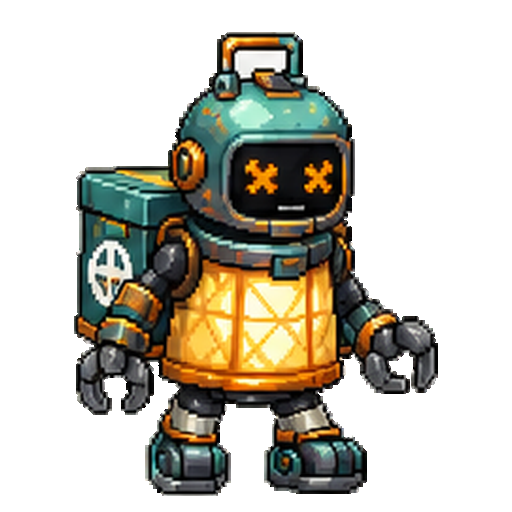
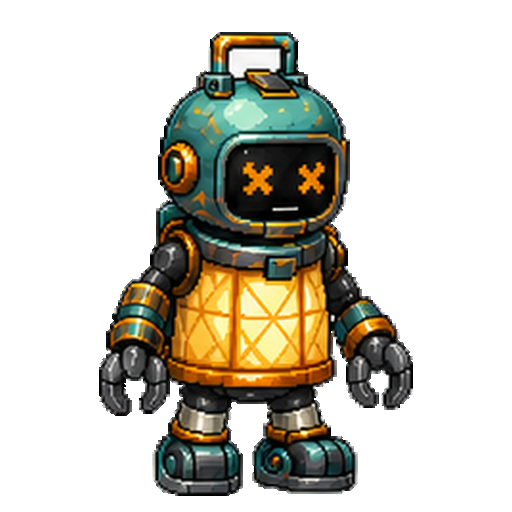
Rebuild stage one enemies under strict visual gate

diff --git a/android/tools/build_strict_enemy_atlas.py b/android/tools/build_strict_enemy_atlas.py
@@ -12,6 +12,8 @@ from PIL import Image, ImageFilter
 
 COLS, SOURCE_ROWS, OUTPUT_ROWS = 6, 2, 6
 SHEETS = ("idle_walk.png", "attacks.png", "hurt_knockdown.png")
+MIN_SOURCE_SIZE = (1536, 900)
+MIN_SOURCE_CELL = (250, 450)
 TIERS = {
     # Wide 7:6 cells preserve punches, backpacks, shields, and prone bodies.
     # The old 5:6 cell forced wide poses to shrink until details disappeared.
@@ -114,29 +116,67 @@ def keep_character_and_effects(image: Image.Image) -> Image.Image:
     return result
 
 
+def adaptive_column_bounds(clean_row: Image.Image) -> list[int]:
+    """Split on real empty gutters instead of assuming perfectly equal cells."""
+    alpha = clean_row.getchannel("A")
+    # BOX reduction gives the per-column foreground density in native code.
+    projection = list(alpha.resize((alpha.width, 1), Image.Resampling.BOX).getdata())
+    nominal = alpha.width / COLS
+    bounds = [0]
+    # Generators distribute poses visually, not with exact mathematical cell
+    # widths. A one-third-cell search still cannot skip a pose, but it can find
+    # the real white gutter after a long punch or wide grounded silhouette.
+    radius = max(12, round(nominal * .33))
+    half_window = 3
+    for index in range(1, COLS):
+        target = round(index * nominal)
+        start = max(bounds[-1] + 24, target - radius)
+        end = min(alpha.width - 24, target + radius)
+        cut = min(
+            range(start, end + 1),
+            key=lambda x: (
+                sum(projection[max(0, x-half_window):min(alpha.width, x+half_window+1)]),
+                abs(x - target),
+            ),
+        )
+        bounds.append(cut)
+    bounds.append(alpha.width)
+    return bounds
+
+
 def split_sheet(path: Path) -> list[Image.Image]:
     image = Image.open(path).convert("RGB")
-    # Image generators may return a wide 3:1 sheet or a taller 3:2 sheet.
-    # Judge source detail per panel, not by one fixed canvas aspect ratio.
     panel_width = image.width / COLS
     panel_height = image.height / SOURCE_ROWS
-    if panel_width < 240 or panel_height < 240:
+    if image.width < MIN_SOURCE_SIZE[0] or image.height < MIN_SOURCE_SIZE[1]:
+        raise ValueError(f"source sheet below {MIN_SOURCE_SIZE}: {path} {image.size}")
+    if panel_width < MIN_SOURCE_CELL[0] or panel_height < MIN_SOURCE_CELL[1]:
         raise ValueError(
-            f"source cells are below 240x240: {path} {image.size} "
+            f"source cells are below {MIN_SOURCE_CELL}: {path} {image.size} "
             f"cell={panel_width:.0f}x{panel_height:.0f}"
         )
     frames = []
     for row in range(SOURCE_ROWS):
         top, bottom = round(image.height * row / 2), round(image.height * (row + 1) / 2)
+        clean_row = hard_alpha(remove_edge_background(image.crop((0, top, image.width, bottom))))
+        bounds = adaptive_column_bounds(clean_row)
         for column in range(COLS):
-            left, right = round(image.width * column / 6), round(image.width * (column + 1) / 6)
-            inset_x, inset_y = max(4, (right - left) // 45), max(4, (bottom - top) // 70)
-            panel = image.crop((left + inset_x, top + inset_y,
-                                right - inset_x, bottom - inset_y))
-            clean = keep_character_and_effects(hard_alpha(remove_edge_background(panel)))
+            left, right = bounds[column], bounds[column + 1]
+            # Never pre-trim a generated cell: the old inset could eat a fist,
+            # backpack, shield, or prone foot before validation saw it.
+            panel = clean_row.crop((left, 0, right, clean_row.height))
+            clean = keep_character_and_effects(panel)
             box = clean.getchannel("A").getbbox()
             if not box:
                 raise ValueError(f"empty source frame: {path.name} r{row} c{column}")
+            # Reject a cropped source instead of hiding the defect by deleting
+            # edge pixels. This is the principal guard against wrapped limbs.
+            source_gutter = max(3, min(panel.size) // 100)
+            if min(box[0], box[1], panel.width - box[2], panel.height - box[3]) < source_gutter:
+                raise ValueError(
+                    f"cropped source frame: {path.name} r{row} c{column} "
+                    f"box={box} panel={panel.size}"
+                )
             frames.append(clean.crop(box))
     return frames
 
@@ -165,9 +205,18 @@ def build_tier(frames: list[Image.Image], tier: str) -> Image.Image:
     reference_length = statistics.median(
         max(frame.width, frame.height) * scale for frame in frames[:12]
     )
+    reference_standing_height = statistics.median(
+        frame.height * scale for frame in frames[:12]
+    )
     atlas = Image.new("RGBA", (cell[0] * COLS, cell[1] * OUTPUT_ROWS), (0, 0, 0, 0))
     for index, frame in enumerate(frames):
         target = (max(2, round(frame.width * scale)), max(2, round(frame.height * scale)))
+        # Idle/walk must never breathe in size. Normalize their body height
+        # before fitting the exceptional wide poses into the safety area.
+        if index < 12:
+            stable = reference_standing_height / target[1]
+            target = (max(2, round(target[0] * stable)),
+                      max(2, round(target[1] * stable)))
         # Generated action/reaction panels sometimes contain the same actor at
         # a much smaller camera scale. Enforce a minimum visible body length so
         # punches, hurt frames, and prone frames cannot fade into tiny shapes.
@@ -225,6 +274,12 @@ def main() -> None:
     parser.add_argument("source_dir", type=Path)
     parser.add_argument("assets", type=Path)
     args = parser.parse_args()
+    model_sheet = args.source_dir / "model_sheet.png"
+    if not model_sheet.is_file():
+        raise ValueError(f"missing identity model sheet: {model_sheet}")
+    with Image.open(model_sheet) as model:
+        if model.width < MIN_SOURCE_SIZE[0] or model.height < MIN_SOURCE_SIZE[1]:
+            raise ValueError(f"model sheet below {MIN_SOURCE_SIZE}: {model_sheet} {model.size}")
     frames = []
     for sheet in SHEETS: frames.extend(split_sheet(args.source_dir / sheet))
     if len(frames) != 36: raise ValueError(len(frames))

diff --git a/android/tools/test_enemy_visual_quality_contract.py b/android/tools/test_enemy_visual_quality_contract.py
@@ -1,7 +1,8 @@
 #!/usr/bin/env python3
-"""Release-blocking visual parity contract for the approved Stage 1 pilot."""
+"""Release-blocking visual parity contract for every Stage 1 enemy."""
 
 from pathlib import Path
+import importlib.util
 import statistics
 
 from PIL import Image
@@ -10,10 +11,16 @@ ROOT = Path(__file__).resolve().parents[1]
 ASSETS = ROOT / "app/src/main/assets"
 JAVA = (ROOT / "app/src/main/java/com/familyforce/neonstreets/EnemyArchetype.java").read_text()
 GAME = (ROOT / "app/src/main/java/com/familyforce/neonstreets/GameView.java").read_text()
-SOURCE = ROOT.parent / "assets/imagegen/android/enemies/quality-v1"
+SOURCE = ROOT.parent / "assets/imagegen/android/enemies/quality-v2"
 STRICT = (
     "grunt", "skater", "lantern_courier", "market_enforcer", "keeper_7",
 )
+
+BUILDER_PATH = ROOT / "tools/build_strict_enemy_atlas.py"
+SPEC = importlib.util.spec_from_file_location("strict_enemy_builder", BUILDER_PATH)
+assert SPEC and SPEC.loader
+BUILDER = importlib.util.module_from_spec(SPEC)
+SPEC.loader.exec_module(BUILDER)
 
 
 def cells(image: Image.Image):
@@ -26,13 +33,26 @@ def cells(image: Image.Image):
 
 for enemy in STRICT:
     assert f'type("{enemy}"' in JAVA, enemy
+    model_sheet = SOURCE / enemy / "model_sheet.png"
+    assert model_sheet.is_file(), f"missing identity model sheet: {model_sheet}"
+    with Image.open(model_sheet) as model:
+        assert model.width >= 1536 and model.height >= 900, (
+            model_sheet, model.size, "model sheet below 1536x900"
+        )
     for sheet in ("idle_walk.png", "attacks.png", "hurt_knockdown.png"):
         path = SOURCE / enemy / sheet
         assert path.is_file(), f"missing high-resolution source: {path}"
         with Image.open(path) as image:
-            assert image.width / 6 >= 240 and image.height / 2 >= 240, (
-                path, image.size, "source cell below 240x240"
+            assert image.width >= 1536 and image.height >= 900, (
+                path, image.size, "source sheet below 1536x900"
             )
+            assert image.width / 6 >= 250 and image.height / 2 >= 450, (
+                path, image.size, "source cell below 250x450"
+            )
+        # Runs the same adaptive split and crop guard used by production. A
+        # visually attractive sheet cannot pass if any actor/effect touches
+        # the real gutter or would wrap into the neighbouring game frame.
+        assert len(BUILDER.split_sheet(path)) == 12, path
     tiers = {
         "base": (ASSETS / f"enemies/{enemy}_anim.png", (1344, 1152), 8),
         "runtime": (ASSETS / f"runtime/enemies/{enemy}_anim.png", (2016, 1728), 12),
@@ -51,7 +71,7 @@ for enemy in STRICT:
             standing = boxes[:12]
             ratios = [(box[3] - box[1]) / cell_h for box in standing]
             assert statistics.median(ratios) >= .64, (enemy, tier, "too small", statistics.median(ratios))
-            assert max(ratios) - min(ratios) <= .13, (enemy, tier, "scale drift", ratios)
+            assert max(ratios) - min(ratios) <= .05, (enemy, tier, "scale drift", ratios)
             lengths = [max(box[2] - box[0], box[3] - box[1]) for box in boxes]
             reference = statistics.median(lengths[:12])
             assert min(lengths[12:24]) >= reference * .78, (enemy, tier, "small action", lengths)

diff --git a/android/docs/ENEMY_VISUAL_QUALITY_STANDARD_AR.md b/android/docs/ENEMY_VISUAL_QUALITY_STANDARD_AR.md
@@ -2,29 +2,31 @@
 
 ## النطاق الحالي
 
-هذا معيار منع إصدار، ويطبّق في النسخة التجريبية الأولى على شخصيات المرحلة
-الأولى فقط: `Grunt` و`Skater` و`Lantern Courier` و`Market Enforcer`
-و`Keeper-7`. لا تُعمّم إعادة الرسم على المراحل التالية قبل اعتماد النتيجة داخل
-اللعبة على الهاتف وAndroid TV.
+هذا معيار منع إصدار صارم، ويطبّق على جميع أعداء المرحلة الأولى: `Grunt`
+و`Skater` و`Lantern Courier` و`Market Enforcer` و`Keeper-7`. مرجع الجودة
+والوضوح هو المستوى المعتمد داخل اللعبة لشخصيتي `Striker` و`Shield Guard`.
+لا تُعمّم إعادة الرسم على المراحل التالية قبل اعتماد المرحلة الأولى داخل اللعبة.
 
 ## المصدر الإلزامي
 
-- لكل عدو ثلاث أوراق صور ثابتة: `idle_walk.png` و`attacks.png`
+- لكل عدو `model_sheet.png` إلزامي لتثبيت الهوية، وثلاث أوراق صور ثابتة:
+  `idle_walk.png` و`attacks.png`
   و`hurt_knockdown.png`.
-- كل ورقة شبكة `6×2`، وكل خلية مصدر لا تقل عن `240×240` بكسل.
+- لا تقل أي ورقة عن `1536×900`، وتكون أوراق الحركة شبكة `6×2`، وكل خلية
+  مصدر لا تقل عن `250×450` بكسل. الاسم UHD وحده لا يعد دليلاً على الجودة.
 - يحافظ الرسم على هوية العدو وألوانه ونسب جسمه؛ المرجع يحدد الهوية، ومعيار
   Striker وShield Guard يحدد دقة الخطوط وحجم تجمعات البكسل.
-- الجسم كامل داخل كل خلية مع مساحة آمنة للحركة؛ يمنع قص الأطراف أو انتقال مؤثر
-  من خلية مجاورة.
+- الجسم كامل داخل كل خلية مع مساحة آمنة للحركة؛ أي إطار يلامس حد الخلية يُرفض
+  قبل بناء الأطلس، ويمنع قص الأطراف أو انتقال مؤثر من خلية مجاورة.
 - يمنع الـblur والـsoft alpha والبكسل العملاق والخلفيات أو النصوص داخل الخلايا.
 
 ## الأطالس المعتمدة
 
 | الطبقة | حجم الأطلس | حجم الخلية | الاستخدام |
 |---|---:|---:|---|
-| Base | `960×1152` | `160×192` | الهواتف/الاحتياط، تجمعات بكسل مضبوطة `2×2` |
-| Runtime | `1440×1728` | `240×288` | الأجهزة ذات ذاكرة كافية، مبني مباشرة من المصدر العالي |
-| TV | `840×1008` | `140×168` | أجهزة Android TV محدودة الذاكرة، مشتق مرة واحدة من Runtime |
+| Base | `1344×1152` | `224×192` | الهواتف/الاحتياط، تجمعات بكسل مضبوطة `2×2` |
+| Runtime | `2016×1728` | `336×288` | الأجهزة ذات ذاكرة كافية، مبني مباشرة من المصدر العالي |
+| TV | `1176×1008` | `196×168` | أجهزة Android TV محدودة الذاكرة، مبني مباشرة من المصدر العالي |
 
 ## بوابة القبول الآلية
 
@@ -32,9 +34,11 @@
 - Alpha ثنائي فقط: `0` أو`255`.
 - هامش آمن أدناه: Base `8px`، Runtime `12px`، TV `7px`.
 - وسيط ارتفاع الوقوف والمشي لا يقل عن 64% من ارتفاع الخلية.
-- اختلاف مقياس أول 12 إطارًا لا يتجاوز 13%.
+- اختلاف مقياس أول 12 إطارًا لا يتجاوز 5%، ويطبّق البناء تطبيعًا لارتفاع
+  الوقوف والمشي لمنع تكبير وتصغير الشخصية أثناء الحركة.
 - Base يحافظ على تجمعات `2×2` الدقيقة دون upscale ضبابي.
-- لا يُسمح ببناء TV من Base؛ يبنى من Runtime لمنع التصغير المتكرر.
+- لا يُسمح ببناء Runtime أوTV من Base؛ تبنى الطبقات الثلاث مباشرة من المصدر
+  العالي في عملية واحدة لمنع التصغير المتكرر.
 
 يشغّل الاختبار:
 
@@ -56,4 +60,3 @@ python3 android/tools/test_enemy_visual_quality_contract.py
 3. مشاهدة idle والمشي والهجوم والإصابة والسقوط للتأكد من ثبات الحجم وعدم القص.
 4. اختبار لاعب ولاعبين على محاكي TV، ثم Xiaomi Stick أوShield عند توفره.
 5. أي فشل يعيد الشخصية نفسها إلى المصدر؛ لا يُخفى الخلل بتكبير داخل المحرك.
-
